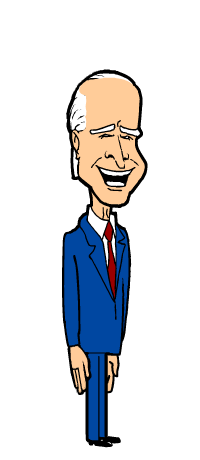
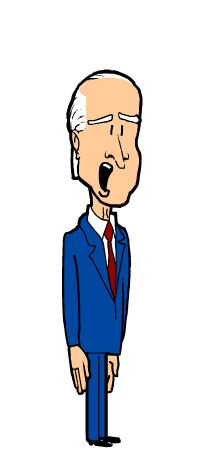
при попадании в Байдена - он вздрагивает с доп кадром

Changed region(s): [[0.45, 0.3348, 0.75, 0.4565], [0.42, 0.2435, 0.72, 0.3043]]

diff --git a/front/src/Field.jsx b/front/src/Field.jsx
@@ -100,6 +100,8 @@ import city_4 from "./images/fon/city-4.png"
 import joe_1 from "./images/joe/joe0001.png"
 import joe_2 from "./images/joe/joe0002.png"
 import joe_3 from "./images/joe/joe0003.png"
+import joe_4 from "./images/joe/joe0004.png"
+import joe_5 from "./images/joe/joe0005.png"
 import silhouette from "./images/locator/silhouette.png"
 import apple_1 from "./images/apple/apple0001.png"
 import apple_2 from "./images/apple/apple0002.png"
@@ -208,11 +210,9 @@ function Field() {
      * */
     const [apple, setApple] = useState(1);
     /**
-     * baiden normal - просто стоит
-     * baiden down - присел
-     * baiden up - вытянулся вверх
+     * от 1 до 5
      * */
-    const [baiden_control, setBaiden_control] = useState('baiden normal');
+    const [baiden_control, setBaiden_control] = useState(1);
 
     useEffect(() => {
         setTrajectory([...trajectory, trajectoryPoint]);
@@ -837,30 +837,28 @@ function Field() {
     }
 
     async function hitBaiden() {
-        let i = 1;
+        let i = 2;
         let time;
-        let str;
-        while (i <= 2) {
+        while (i <= 5) {
             switch (i) {
-                case 1:
-                    time = 120;
-                    str = 'baiden down';
-                    break;
                 case 2:
+                    time = 120;
+                    break;
+                case 3:
+                case 5:
                     time = 50;
-                    str = 'baiden up';
+                    break;
+                case 4:
+                    time = 80;
                     break;
             }
-            setBaiden_control(str);
+            setBaiden_control(i);
             let promise = new Promise((resolve, reject) => {
                 setTimeout(() => {
                     resolve("готово");
                 }, time)
             });
             let result = await promise;
-            if (i === 2) {
-                setBaiden_control('baiden normal');
-            }
             i++;
         }
     }
@@ -1100,6 +1098,7 @@ function Field() {
                  * */
                 setApple(1);
                 setKim_control(1);
+                setBaiden_control(1);
                 setStanding_squatting(true);
                 arrow_stick_ref.current.style = '';
                 apple_ref.current.style = '';
@@ -1282,9 +1281,11 @@ function Field() {
                     <img src={grenade_glow20} hidden={kim_control !== 81} alt={""}/>
                 </div>
                 <div className="joe" ref={joe_ref}>
-                    <img src={joe_1} alt={""} hidden={baiden_control !== 'baiden normal'}/>
-                    <img src={joe_2} alt={""} hidden={baiden_control !== 'baiden down'}/>
-                    <img src={joe_3} alt={""} hidden={baiden_control !== 'baiden up'}/>
+                    <img src={joe_1} alt={""} hidden={baiden_control !== 1}/>
+                    <img src={joe_2} alt={""} hidden={baiden_control !== 2}/>
+                    <img src={joe_3} alt={""} hidden={baiden_control !== 3}/>
+                    <img src={joe_4} alt={""} hidden={baiden_control !== 4}/>
+                    <img src={joe_5} alt={""} hidden={baiden_control !== 5}/>
                     <div className="joe_box_legs" ref={joe_box_legs_ref}/>
                     <div className="joe_box_body" ref={joe_box_body_ref}/>
                     <div className="apple" ref={apple_ref}>
